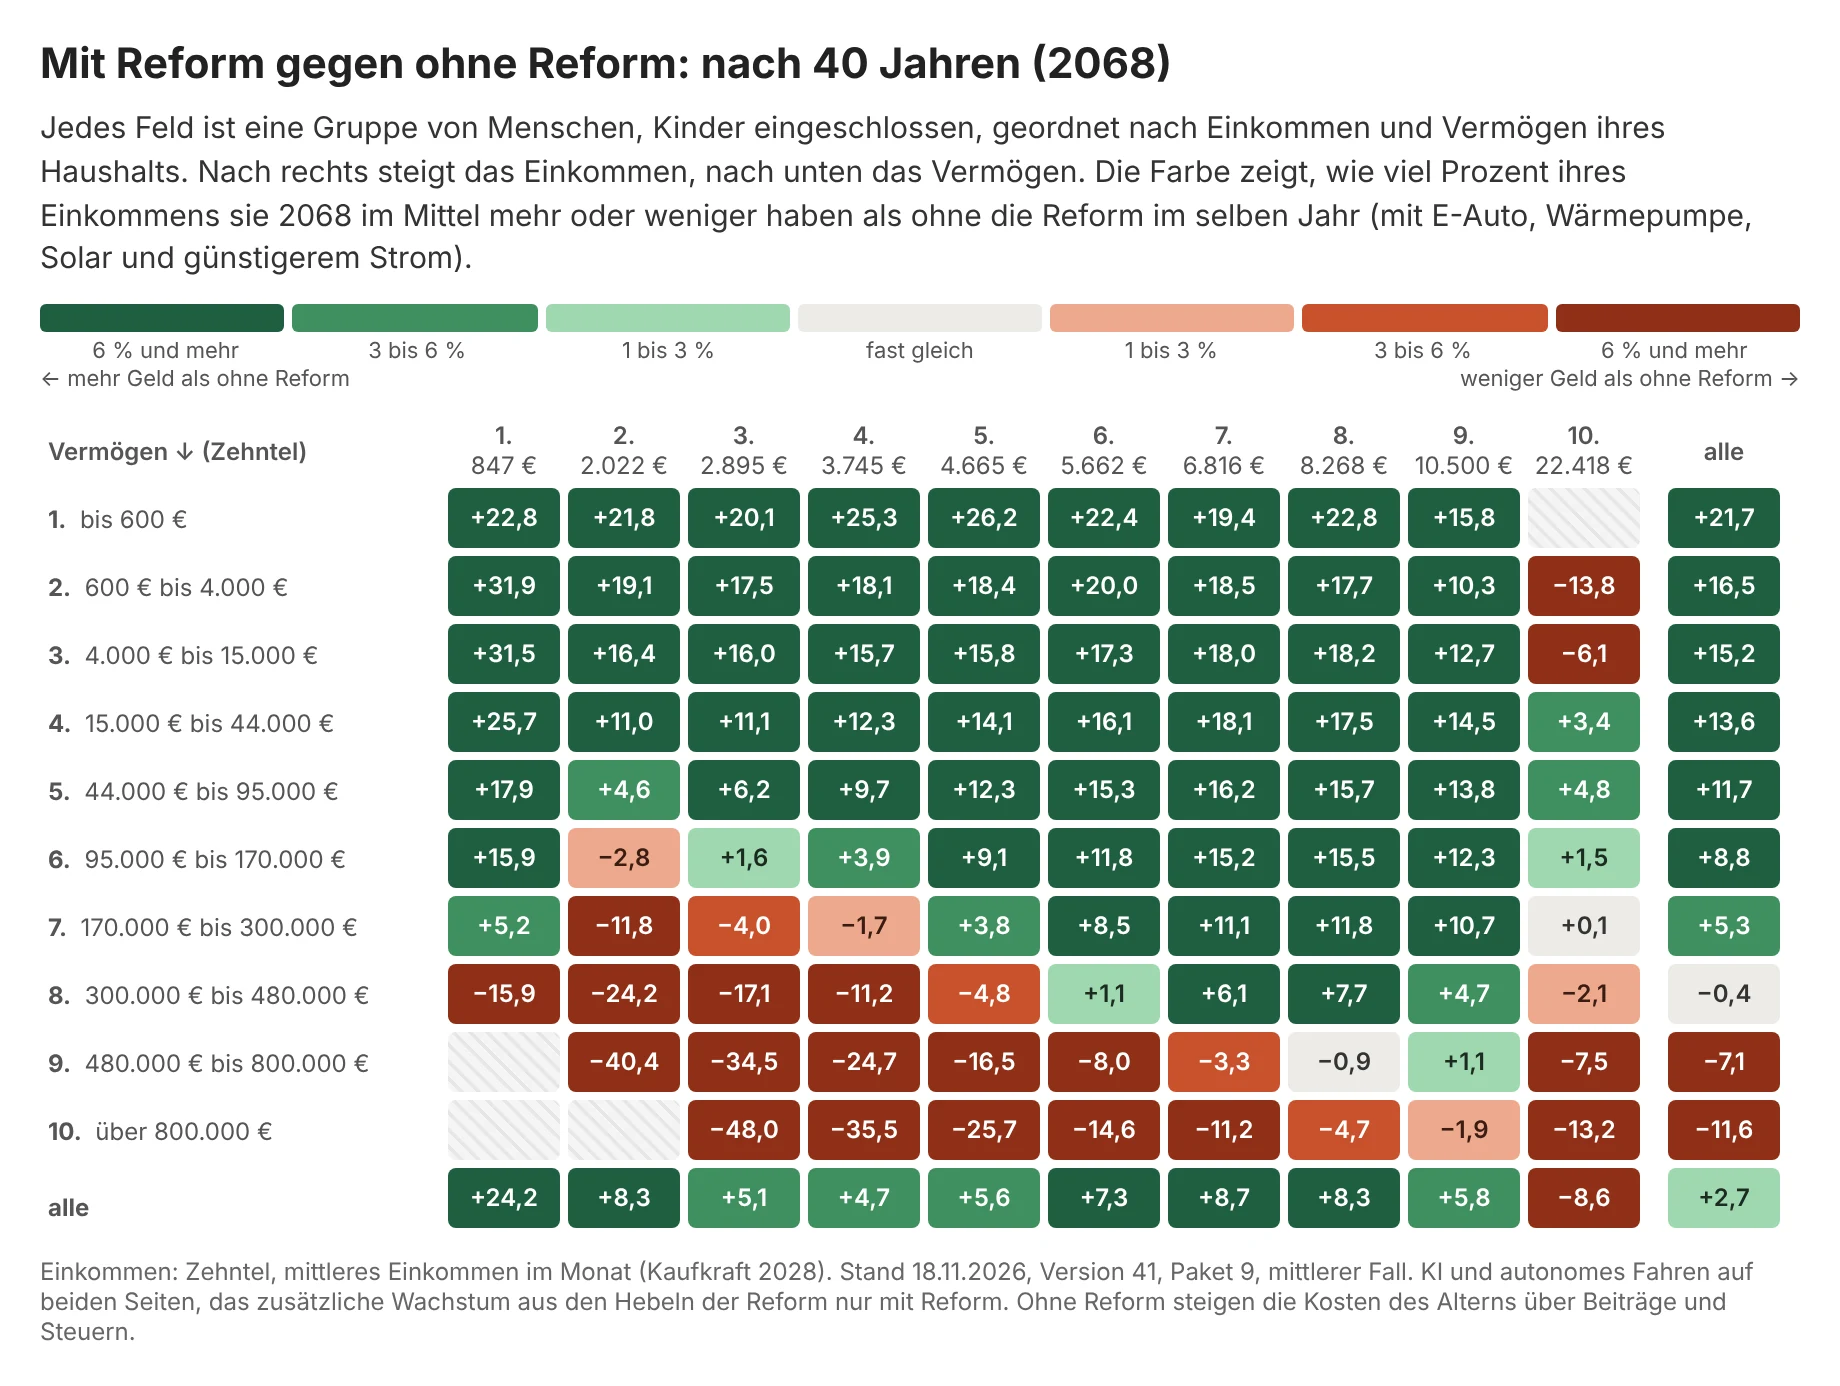
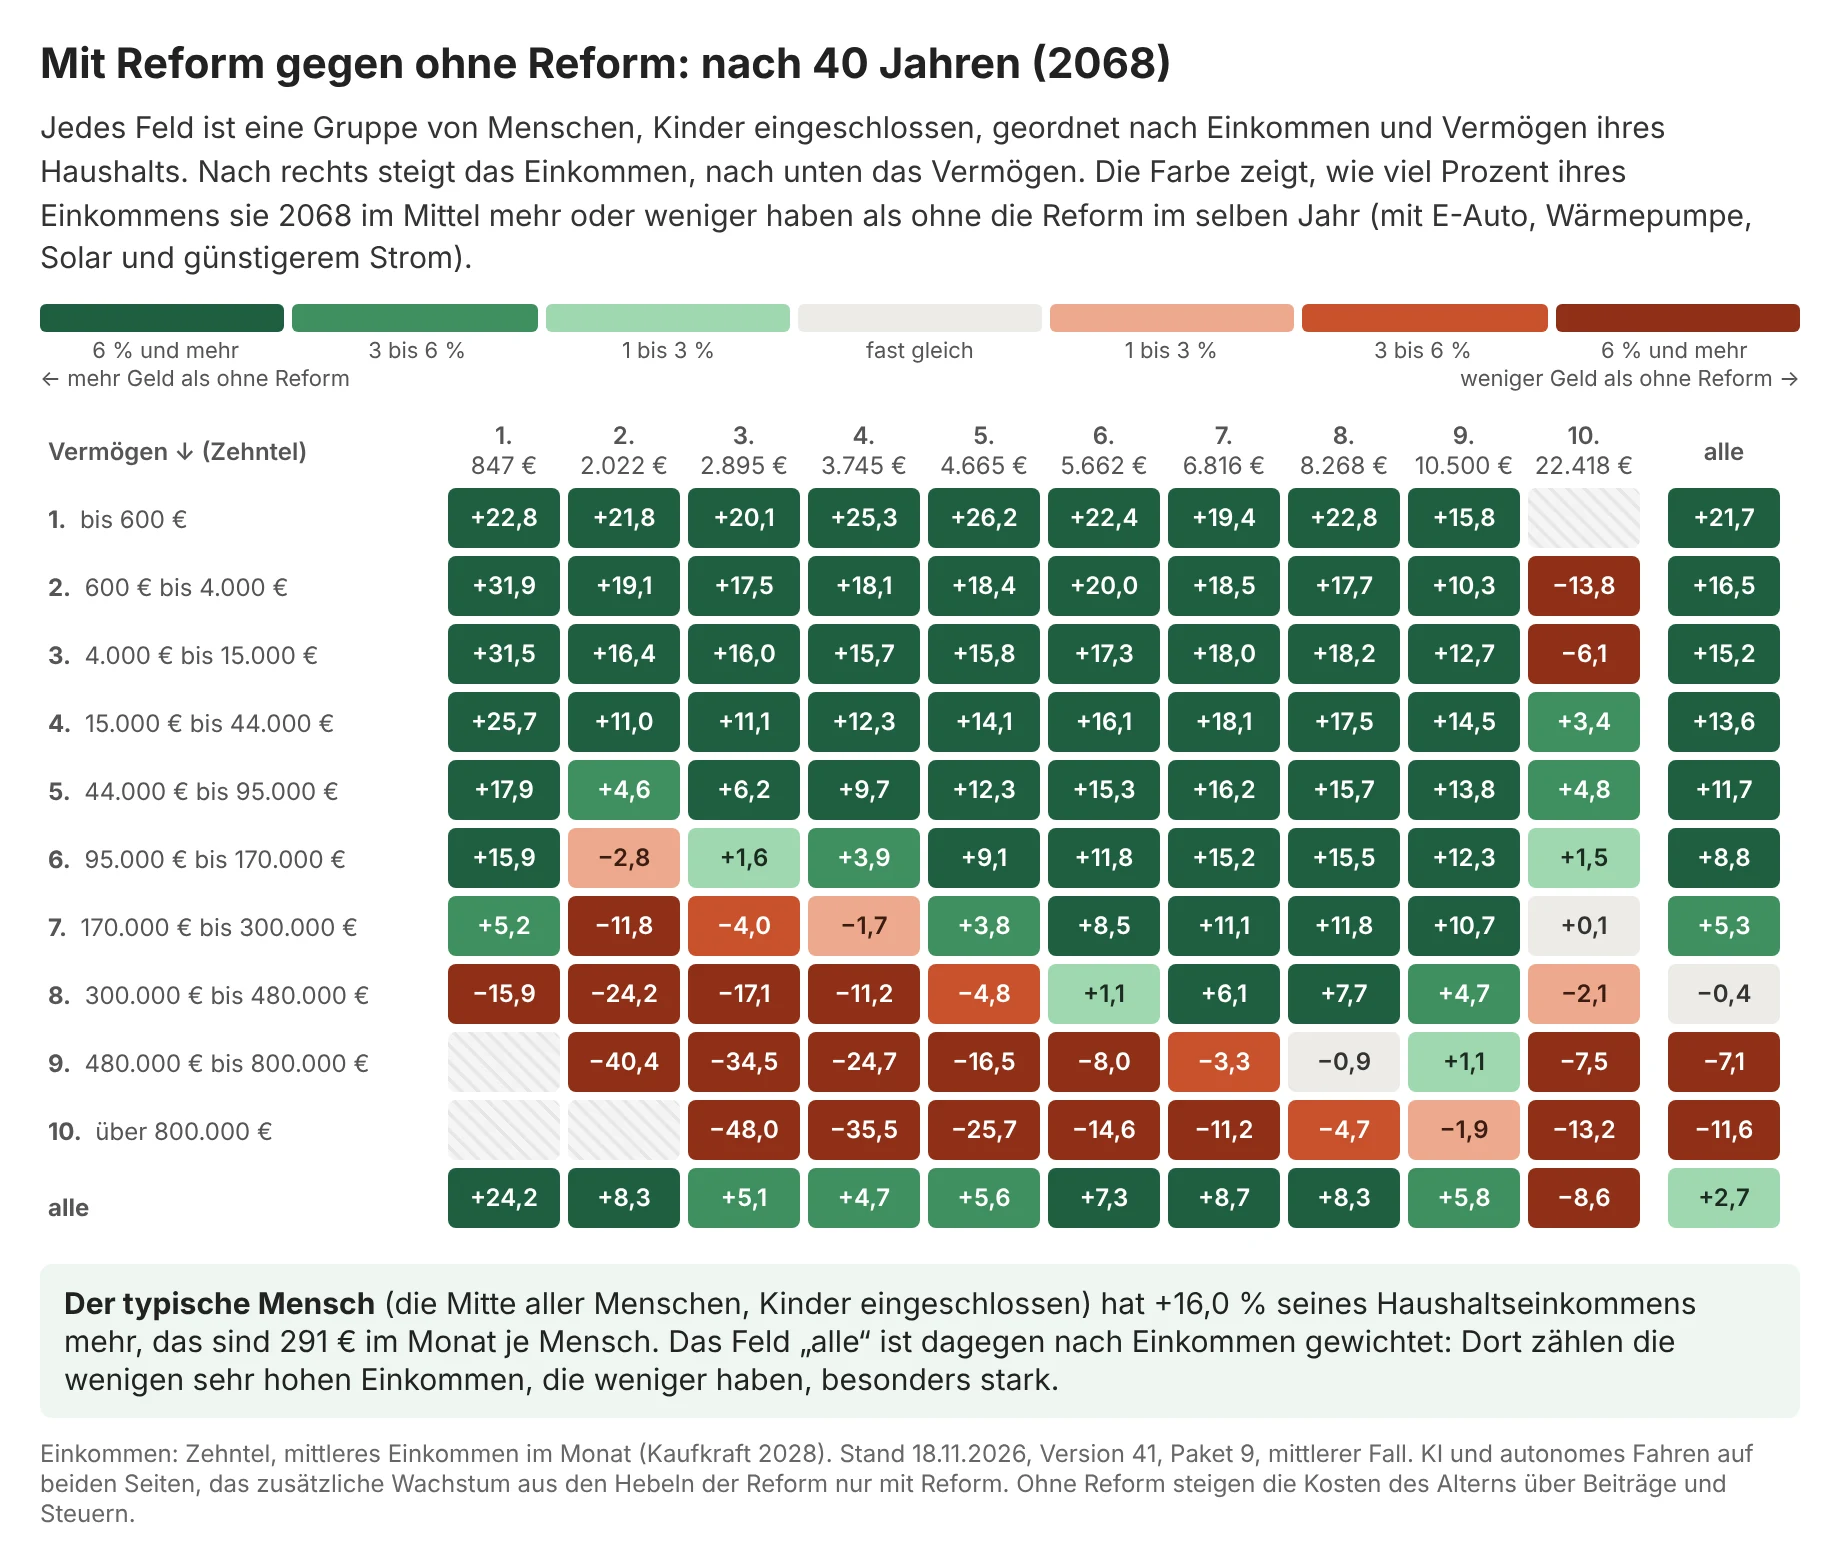
Startseite: Farbfelder mit dem typischen Menschen (Median) unter der Tabelle
Claude-Session: https://claude.ai/code/session_012Y93VcoN35D38RtTTtR6vF

diff --git a/index.html b/index.html
@@ -42,7 +42,7 @@
 <div class="card"><span class="big">68 von 100</span><p>Menschen haben zum Start mehr Geld als ohne Reform, wenn sie so viel einkaufen wie heute, Kinder mitgezählt. Ab 2045 sind es rund 75 von 100. Gegen heute gerechnet haben 62 von 100 Menschen mehr. Eine Familie mit zwei Kindern, 5.000 € brutto und eigenem Haus hat 1.139 € im Monat mehr.</p></div>
 <div class="card"><span class="big">trägt sich</span><p>Wer im bezahlten eigenen Haus wohnt oder schon Rente bezieht, zahlt nicht doppelt. Aus altem, schon versteuertem Ersparten bleiben zusätzlich zum Freibetrag 1.715 € im Jahr frei. Mit dem Zukunftsplan ist der Staat im mittleren Fall 2082 schuldenfrei, ohne höhere Mehrwertsteuer, im zuversichtlichen Fall schon 2052. Jede Zahl ist im Buch erklärt und hier im Rechner nachprüfbar.</p></div>
 </div>
-<figure class="steuerlast" id="ohne-reform"><div class="or-wahl" role="group" aria-label="Jahr wählen"><button type="button" data-j="2038" aria-pressed="false">nach 10 Jahren</button><button type="button" data-j="2048" aria-pressed="true">nach 20 Jahren</button><button type="button" data-j="2058" aria-pressed="false">nach 30 Jahren</button><button type="button" data-j="2068" aria-pressed="false">nach 40 Jahren</button><button type="button" data-j="2070" aria-pressed="false">2070</button></div><img id="or-bild" src="bilder/ohne-reform/mit-gegen-ohne-reform-2048.webp" width="1840" height="1386" loading="lazy" alt="Farbfeld nach Einkommen und Vermögen, 2048: Alle Menschen haben mit der Reform im Mittel +2,5 % ihres Einkommens gegen den Weg ohne Reform. Mehr haben vor allem die unteren und mittleren Einkommen, weniger vor allem Menschen in Haushalten mit mehr als 300.000 € Vermögen und im obersten Zehntel der Einkommen."><figcaption>Wer mit der Reform mehr Geld hat als ohne sie, im selben Jahr, für alle Menschen samt Kindern nach Einkommen (nach rechts) und Vermögen ihres Haushalts (nach unten), im mittleren Fall, mit dem wahrscheinlichen Umstieg auf E-Auto, Wärmepumpe und Solarstrom. Ohne Reform steigen die Kosten des Alterns über Beiträge und Steuern. Weniger haben vor allem Menschen in Haushalten mit mehr als 300.000 € Vermögen und im obersten Zehntel der Einkommen. <a href="steuerlast/">Gegen heute gerechnet: Wer die Reform bezahlt</a></figcaption></figure>
+<figure class="steuerlast" id="ohne-reform"><div class="or-wahl" role="group" aria-label="Jahr wählen"><button type="button" data-j="2038" aria-pressed="false">nach 10 Jahren</button><button type="button" data-j="2048" aria-pressed="true">nach 20 Jahren</button><button type="button" data-j="2058" aria-pressed="false">nach 30 Jahren</button><button type="button" data-j="2068" aria-pressed="false">nach 40 Jahren</button><button type="button" data-j="2070" aria-pressed="false">2070</button></div><img id="or-bild" src="bilder/ohne-reform/mit-gegen-ohne-reform-2048.webp" width="1840" height="1568" loading="lazy" alt="Farbfeld nach Einkommen und Vermögen, 2048: Der typische Mensch hat mit der Reform 14 % seines Haushaltseinkommens mehr als ohne Reform, 262 € im Monat. Über alle Einkommen zusammen sind es +2,5 %, weil das oberste Zehntel schwer zählt. Mehr haben vor allem die unteren und mittleren Einkommen, weniger vor allem Menschen in Haushalten mit mehr als 300.000 € Vermögen und im obersten Zehntel der Einkommen."><figcaption>Wer mit der Reform mehr Geld hat als ohne sie, im selben Jahr, für alle Menschen samt Kindern nach Einkommen (nach rechts) und Vermögen ihres Haushalts (nach unten), im mittleren Fall, mit dem wahrscheinlichen Umstieg auf E-Auto, Wärmepumpe und Solarstrom. Ohne Reform steigen die Kosten des Alterns über Beiträge und Steuern. Weniger haben vor allem Menschen in Haushalten mit mehr als 300.000 € Vermögen und im obersten Zehntel der Einkommen. <a href="steuerlast/">Gegen heute gerechnet: Wer die Reform bezahlt</a></figcaption></figure>
 <div class="cta"><div><h3>Was bedeutet das für deinen Haushalt?</h3><p style="margin:0;color:var(--muted)">Der Steuerrechner vergleicht heute und Vorschlag, zeigt die Staatsfinanzen bis 2070 und die CO₂-Abgabe. Er läuft im Browser und speichert nichts.</p></div><a class="btn" href="steuerrechner/">Jetzt nachrechnen</a></div>
 <div class="cta"><div><h3>E-Auto oder Verbrenner?</h3><p style="margin:0;color:var(--muted)">Was ein Elektroauto über sein ganzes Leben im Vergleich zum Verbrenner kostet, privat oder als Dienstwagen. Mit den Regeln für Kfz-Steuer und Dienstwagen, Stand 2026.</p></div><a class="btn ghost" href="eauto-rechner/">E-Auto nachrechnen</a></div>
 <div class="cta"><div><h3>Wärmepumpe, Gas oder Öl?</h3><p style="margin:0;color:var(--muted)">Was eine neue Heizung über 20 Jahre kostet: mit Förderung, CO₂-Preis und der neuen Pflicht zur Bio-Beimischung, Stand 2026. Dazu Dämmen und neue Fenster: niedrigere Vorlauftemperatur, bessere Wärmepumpe, weniger CO₂, auch mit dynamischem Tarif.</p></div><a class="btn ghost" href="heizungsrechner/">Heizung nachrechnen</a></div>
@@ -104,6 +104,6 @@
 </main>
 <footer><div class="wrap"><span>© 2026 Tomas Hecker · Mut zur Zukunft · Alle Angaben ohne Gewähr</span><nav aria-label="Rechtliches"><a href="impressum.html#haftung">Haftungsausschluss</a><a href="impressum.html">Impressum</a><a href="datenschutz.html">Datenschutz</a></nav></div></footer>
 <script src="satz.js" defer></script>
-<script>(()=>{const A={"2038": "Farbfeld nach Einkommen und Vermögen, 2038: Alle Menschen haben mit der Reform im Mittel −1,4 % ihres Einkommens gegen den Weg ohne Reform. Mehr haben vor allem die unteren und mittleren Einkommen, weniger vor allem Menschen in Haushalten mit mehr als 300.000 € Vermögen und im obersten Zehntel der Einkommen.", "2048": "Farbfeld nach Einkommen und Vermögen, 2048: Alle Menschen haben mit der Reform im Mittel +2,5 % ihres Einkommens gegen den Weg ohne Reform. Mehr haben vor allem die unteren und mittleren Einkommen, weniger vor allem Menschen in Haushalten mit mehr als 300.000 € Vermögen und im obersten Zehntel der Einkommen.", "2058": "Farbfeld nach Einkommen und Vermögen, 2058: Alle Menschen haben mit der Reform im Mittel +2,6 % ihres Einkommens gegen den Weg ohne Reform. Mehr haben vor allem die unteren und mittleren Einkommen, weniger vor allem Menschen in Haushalten mit mehr als 300.000 € Vermögen und im obersten Zehntel der Einkommen.", "2068": "Farbfeld nach Einkommen und Vermögen, 2068: Alle Menschen haben mit der Reform im Mittel +2,7 % ihres Einkommens gegen den Weg ohne Reform. Mehr haben vor allem die unteren und mittleren Einkommen, weniger vor allem Menschen in Haushalten mit mehr als 300.000 € Vermögen und im obersten Zehntel der Einkommen.", "2070": "Farbfeld nach Einkommen und Vermögen, 2070: Alle Menschen haben mit der Reform im Mittel +2,8 % ihres Einkommens gegen den Weg ohne Reform. Mehr haben vor allem die unteren und mittleren Einkommen, weniger vor allem Menschen in Haushalten mit mehr als 300.000 € Vermögen und im obersten Zehntel der Einkommen."},b=document.getElementById("or-bild");document.querySelectorAll("#ohne-reform .or-wahl button").forEach(k=>k.addEventListener("click",()=>{document.querySelectorAll("#ohne-reform .or-wahl button").forEach(x=>x.setAttribute("aria-pressed",x===k));b.src=`bilder/ohne-reform/mit-gegen-ohne-reform-${k.dataset.j}.webp`;b.alt=A[k.dataset.j];}))})();</script>
+<script>(()=>{const A={"2038": "Farbfeld nach Einkommen und Vermögen, 2038: Der typische Mensch hat mit der Reform 8 % seines Haushaltseinkommens mehr als ohne Reform, 154 € im Monat. Über alle Einkommen zusammen sind es −1,4 %, weil das oberste Zehntel schwer zählt. Mehr haben vor allem die unteren und mittleren Einkommen, weniger vor allem Menschen in Haushalten mit mehr als 300.000 € Vermögen und im obersten Zehntel der Einkommen.", "2048": "Farbfeld nach Einkommen und Vermögen, 2048: Der typische Mensch hat mit der Reform 14 % seines Haushaltseinkommens mehr als ohne Reform, 262 € im Monat. Über alle Einkommen zusammen sind es +2,5 %, weil das oberste Zehntel schwer zählt. Mehr haben vor allem die unteren und mittleren Einkommen, weniger vor allem Menschen in Haushalten mit mehr als 300.000 € Vermögen und im obersten Zehntel der Einkommen.", "2058": "Farbfeld nach Einkommen und Vermögen, 2058: Der typische Mensch hat mit der Reform 15,2 % seines Haushaltseinkommens mehr als ohne Reform, 274 € im Monat. Über alle Einkommen zusammen sind es +2,6 %, weil das oberste Zehntel schwer zählt. Mehr haben vor allem die unteren und mittleren Einkommen, weniger vor allem Menschen in Haushalten mit mehr als 300.000 € Vermögen und im obersten Zehntel der Einkommen.", "2068": "Farbfeld nach Einkommen und Vermögen, 2068: Der typische Mensch hat mit der Reform 16 % seines Haushaltseinkommens mehr als ohne Reform, 291 € im Monat. Über alle Einkommen zusammen sind es +2,7 %, weil das oberste Zehntel schwer zählt. Mehr haben vor allem die unteren und mittleren Einkommen, weniger vor allem Menschen in Haushalten mit mehr als 300.000 € Vermögen und im obersten Zehntel der Einkommen.", "2070": "Farbfeld nach Einkommen und Vermögen, 2070: Der typische Mensch hat mit der Reform 16,2 % seines Haushaltseinkommens mehr als ohne Reform, 295 € im Monat. Über alle Einkommen zusammen sind es +2,8 %, weil das oberste Zehntel schwer zählt. Mehr haben vor allem die unteren und mittleren Einkommen, weniger vor allem Menschen in Haushalten mit mehr als 300.000 € Vermögen und im obersten Zehntel der Einkommen."},b=document.getElementById("or-bild");document.querySelectorAll("#ohne-reform .or-wahl button").forEach(k=>k.addEventListener("click",()=>{document.querySelectorAll("#ohne-reform .or-wahl button").forEach(x=>x.setAttribute("aria-pressed",x===k));b.src=`bilder/ohne-reform/mit-gegen-ohne-reform-${k.dataset.j}.webp`;b.alt=A[k.dataset.j];}))})();</script>
 </body>
 </html>

diff --git a/werkzeug/ohne-reform-startseite.py b/werkzeug/ohne-reform-startseite.py
@@ -15,8 +15,9 @@ for j, _ in JAHRE:
     im = Image.open(f'{Q}homepage-feld-ohne-reform-{j}-energie.png').convert('RGB')
     im.save(f'bilder/ohne-reform/mit-gegen-ohne-reform-{j}.webp', quality=88, method=6)
     m = J[f'energie_{j}']['prozent_des_einkommens']
-    alt[j] = (f'Farbfeld nach Einkommen und Vermögen, {j}: Alle Menschen haben mit der Reform im Mittel {k(m[-1][-1])} % ihres Einkommens '
-              f'gegen den Weg ohne Reform. Mehr haben vor allem die unteren und mittleren Einkommen, weniger vor allem Menschen in Haushalten '
+    tm = J['typischer_mensch'][f'energie_{j}']
+    alt[j] = (f'Farbfeld nach Einkommen und Vermögen, {j}: Der typische Mensch hat mit der Reform {str(tm["median_prozent_des_einkommens"]).replace(".", ",")} % seines Haushaltseinkommens mehr '
+              f'als ohne Reform, {tm["median_eur_je_mensch_monat"]} € im Monat. Über alle Einkommen zusammen sind es {k(m[-1][-1])} %, weil das oberste Zehntel schwer zählt. Mehr haben vor allem die unteren und mittleren Einkommen, weniger vor allem Menschen in Haushalten '
               f'mit mehr als 300.000 € Vermögen und im obersten Zehntel der Einkommen.')
 W, H = im.size
 knoepfe = ''.join(f'<button type="button" data-j="{j}" aria-pressed="{"true" if j == STANDARD else "false"}">{t}</button>' for j, t in JAHRE)
